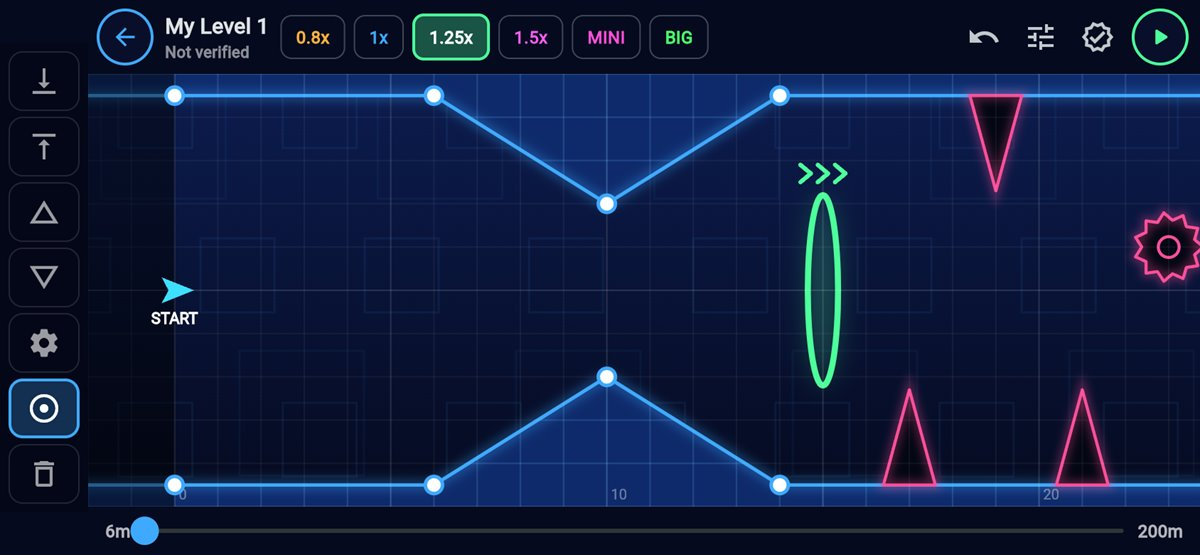
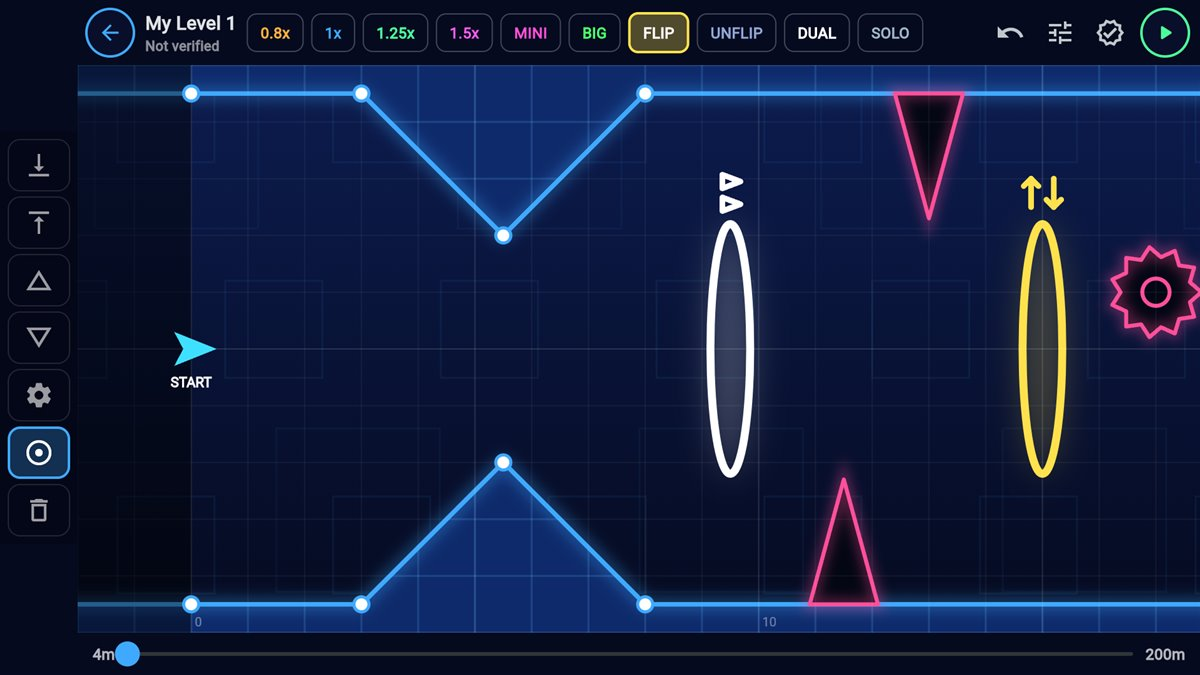
Mirrorwing 1.1 store screenshots and website images
store/v1.1/: 7 screenshots each at 1920x1080 (Play phone/tablet), iPad
13-inch 2752x2064 and iPhone 6.9-inch 2868x1320, showing the twin and
flip portals, ghost + hint, Daily, home and the editor. Website images
and captions refreshed to match. Captured from the real web build with a
temporary (reverted) autopilot/lockstep patch.

diff --git a/docs/index.html b/docs/index.html
@@ -91,16 +91,16 @@
 <main>
   <div class="shots">
     <figure>
-      <img src="img/gameplay.jpg" alt="Mirrorwing gameplay: a glowing arrow leaving a zig-zag tunnel toward a room of spikes">
-      <figcaption>One touch: hold to rise, release to fall.</figcaption>
+      <img src="img/gameplay.jpg" alt="Mirrorwing gameplay: a cyan arrow and its white mirrored twin flying past saws, with a faint ghost of the best run">
+      <figcaption>One touch, two arrows: steer your mirrored twin through every hazard.</figcaption>
     </figure>
     <figure>
-      <img src="img/editor.jpg" alt="Mirrorwing level editor with walls, spikes, a saw and a speed portal placed on a grid">
+      <img src="img/editor.jpg" alt="Mirrorwing level editor with walls, spikes, a saw, a twin portal and a flip portal placed on a grid">
       <figcaption>Build your own stages in the level editor.</figcaption>
     </figure>
     <figure>
-      <img src="img/home.jpg" alt="Mirrorwing home screen with Play, Endless, Skins and Create buttons">
-      <figcaption>Levels, Endless mode, skins and more.</figcaption>
+      <img src="img/home.jpg" alt="Mirrorwing home screen with Play, Daily, Endless, Skins and Create buttons">
+      <figcaption>16 levels, a Daily Challenge, Endless mode and skins.</figcaption>
     </figure>
   </div>
 
